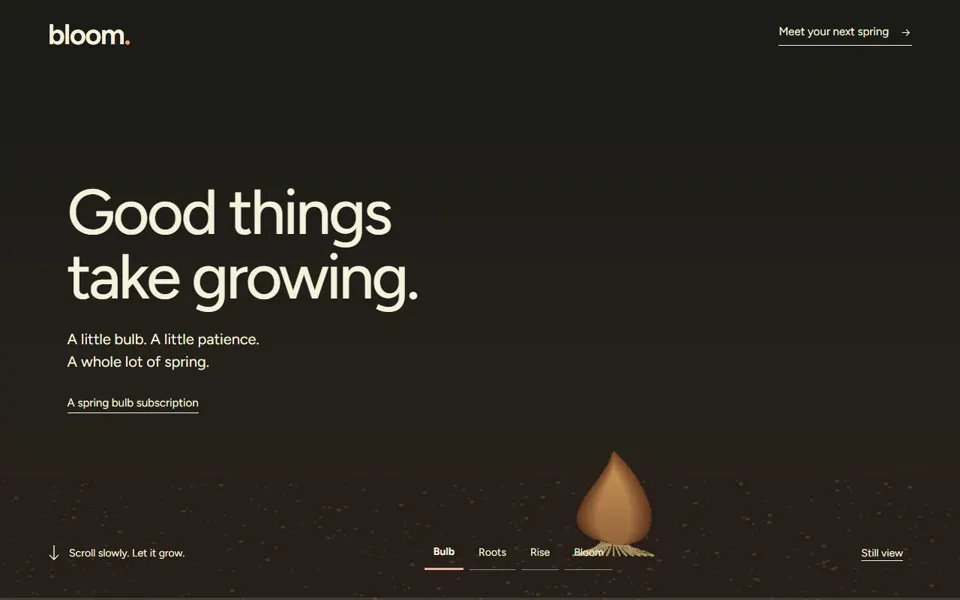
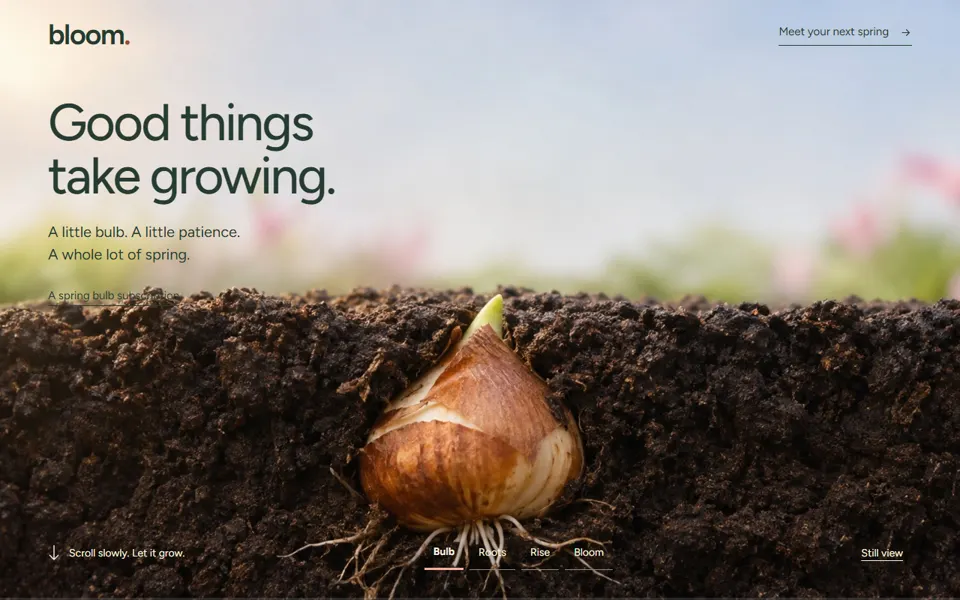
Photoreal thumbnails and notes for chronograph and bloom

diff --git a/index.html b/index.html
@@ -102,8 +102,8 @@ const P=[
  ['04','sketchbook-nl','A Sketchbook of the Netherlands','Eight Dutch places, each a taped-in photo opposite a hand-drawn SVG.','Turn Trip Photos Into a Digital Sketchbook','https://nelsonxlee.substack.com/p/turn-your-trip-photos-into-a-digital','Openly licensed Wikimedia photos instead of a personal camera roll'],
  ['05','orbit-atlas','Orbit Atlas','The eight planets as moving posters, built on HyperFrames with NASA facts.','Claude Design + HyperFrames Pipeline','https://hyperframes.heygen.com/introduction','Hand-made SVG compositions instead of Claude Design (sign-in)'],
  ['06','lantern-film','Lantern','A 30-second launch film for a fictional family AI, with its score and making-of.','Making the dots Film with Opus 5.5','https://achieved-cloak-445.notion.site/Making-the-dots-film-with-Opus-5-5-3f0e13e8b390813f9ac7ce05c2ec7df1','Code-drawn characters and captions instead of Higgsfield footage and ElevenLabs voice'],
- ['07','exploded-chronograph','Meridian Noir','A chronograph that comes apart into its parts as you scroll, then reassembles.','AI Chip Scroll-Animation Landing Page','https://noocap.notion.site/Complete-Workflow-AI-Chip-Scroll-Animation-Landing-Page-341508e99dda80618d88e989402ac749','Three.js renders instead of Google Whisk and Flow'],
- ['08','bloom-scroll','Bloom','A tulip bulb grows into full flower as you scroll.','Codex + Kling = $15K Animated Website','https://youtu.be/eUkCSssoYHw','Procedurally drawn frames instead of Kling video (paid API)'],
+ ['07','exploded-chronograph','Meridian Noir','A chronograph that comes apart into its parts as you scroll, then reassembles.','AI Chip Scroll-Animation Landing Page','https://noocap.notion.site/Complete-Workflow-AI-Chip-Scroll-Animation-Landing-Page-341508e99dda80618d88e989402ac749','ChatGPT images and Gemini Veo motion instead of Google Whisk and Flow'],
+ ['08','bloom-scroll','Bloom','A tulip bulb grows into full flower as you scroll.','Codex + Kling = $15K Animated Website','https://youtu.be/eUkCSssoYHw','ChatGPT images and Gemini Veo motion instead of Kling (paid API)'],
  ['09','seven-motions','Seven Motions','One seed\u2019s journey told in seven animation styles, each with its own film and score.','Claude Opus 5.5 Motion Videos Tutorial \u00b7 Janus Tiu','https://dm.stan.store/iAqWZI','Coded in-house instead of with Claude Code'],
  ['11','obsidian-templates','OBSIDIAN/LIME','A dark templates studio built from the full 13-section prompt.','The Complete AI Website Prompt \u00b7 Hyliox','https://hyliox.io/prompt','Generated canvas background instead of an HLS video'],
  ['15','prompt-to-page','Soft Orchard','Glossy 3D jelly fruit you can pull, recolour, slice and skewer.','Budarina Curated Prompt Collection \u00b7 \u201cJelly Study\u201d','https://budarina.design/prompts','CPU spring physics instead of a GPU volumetric solver'],
